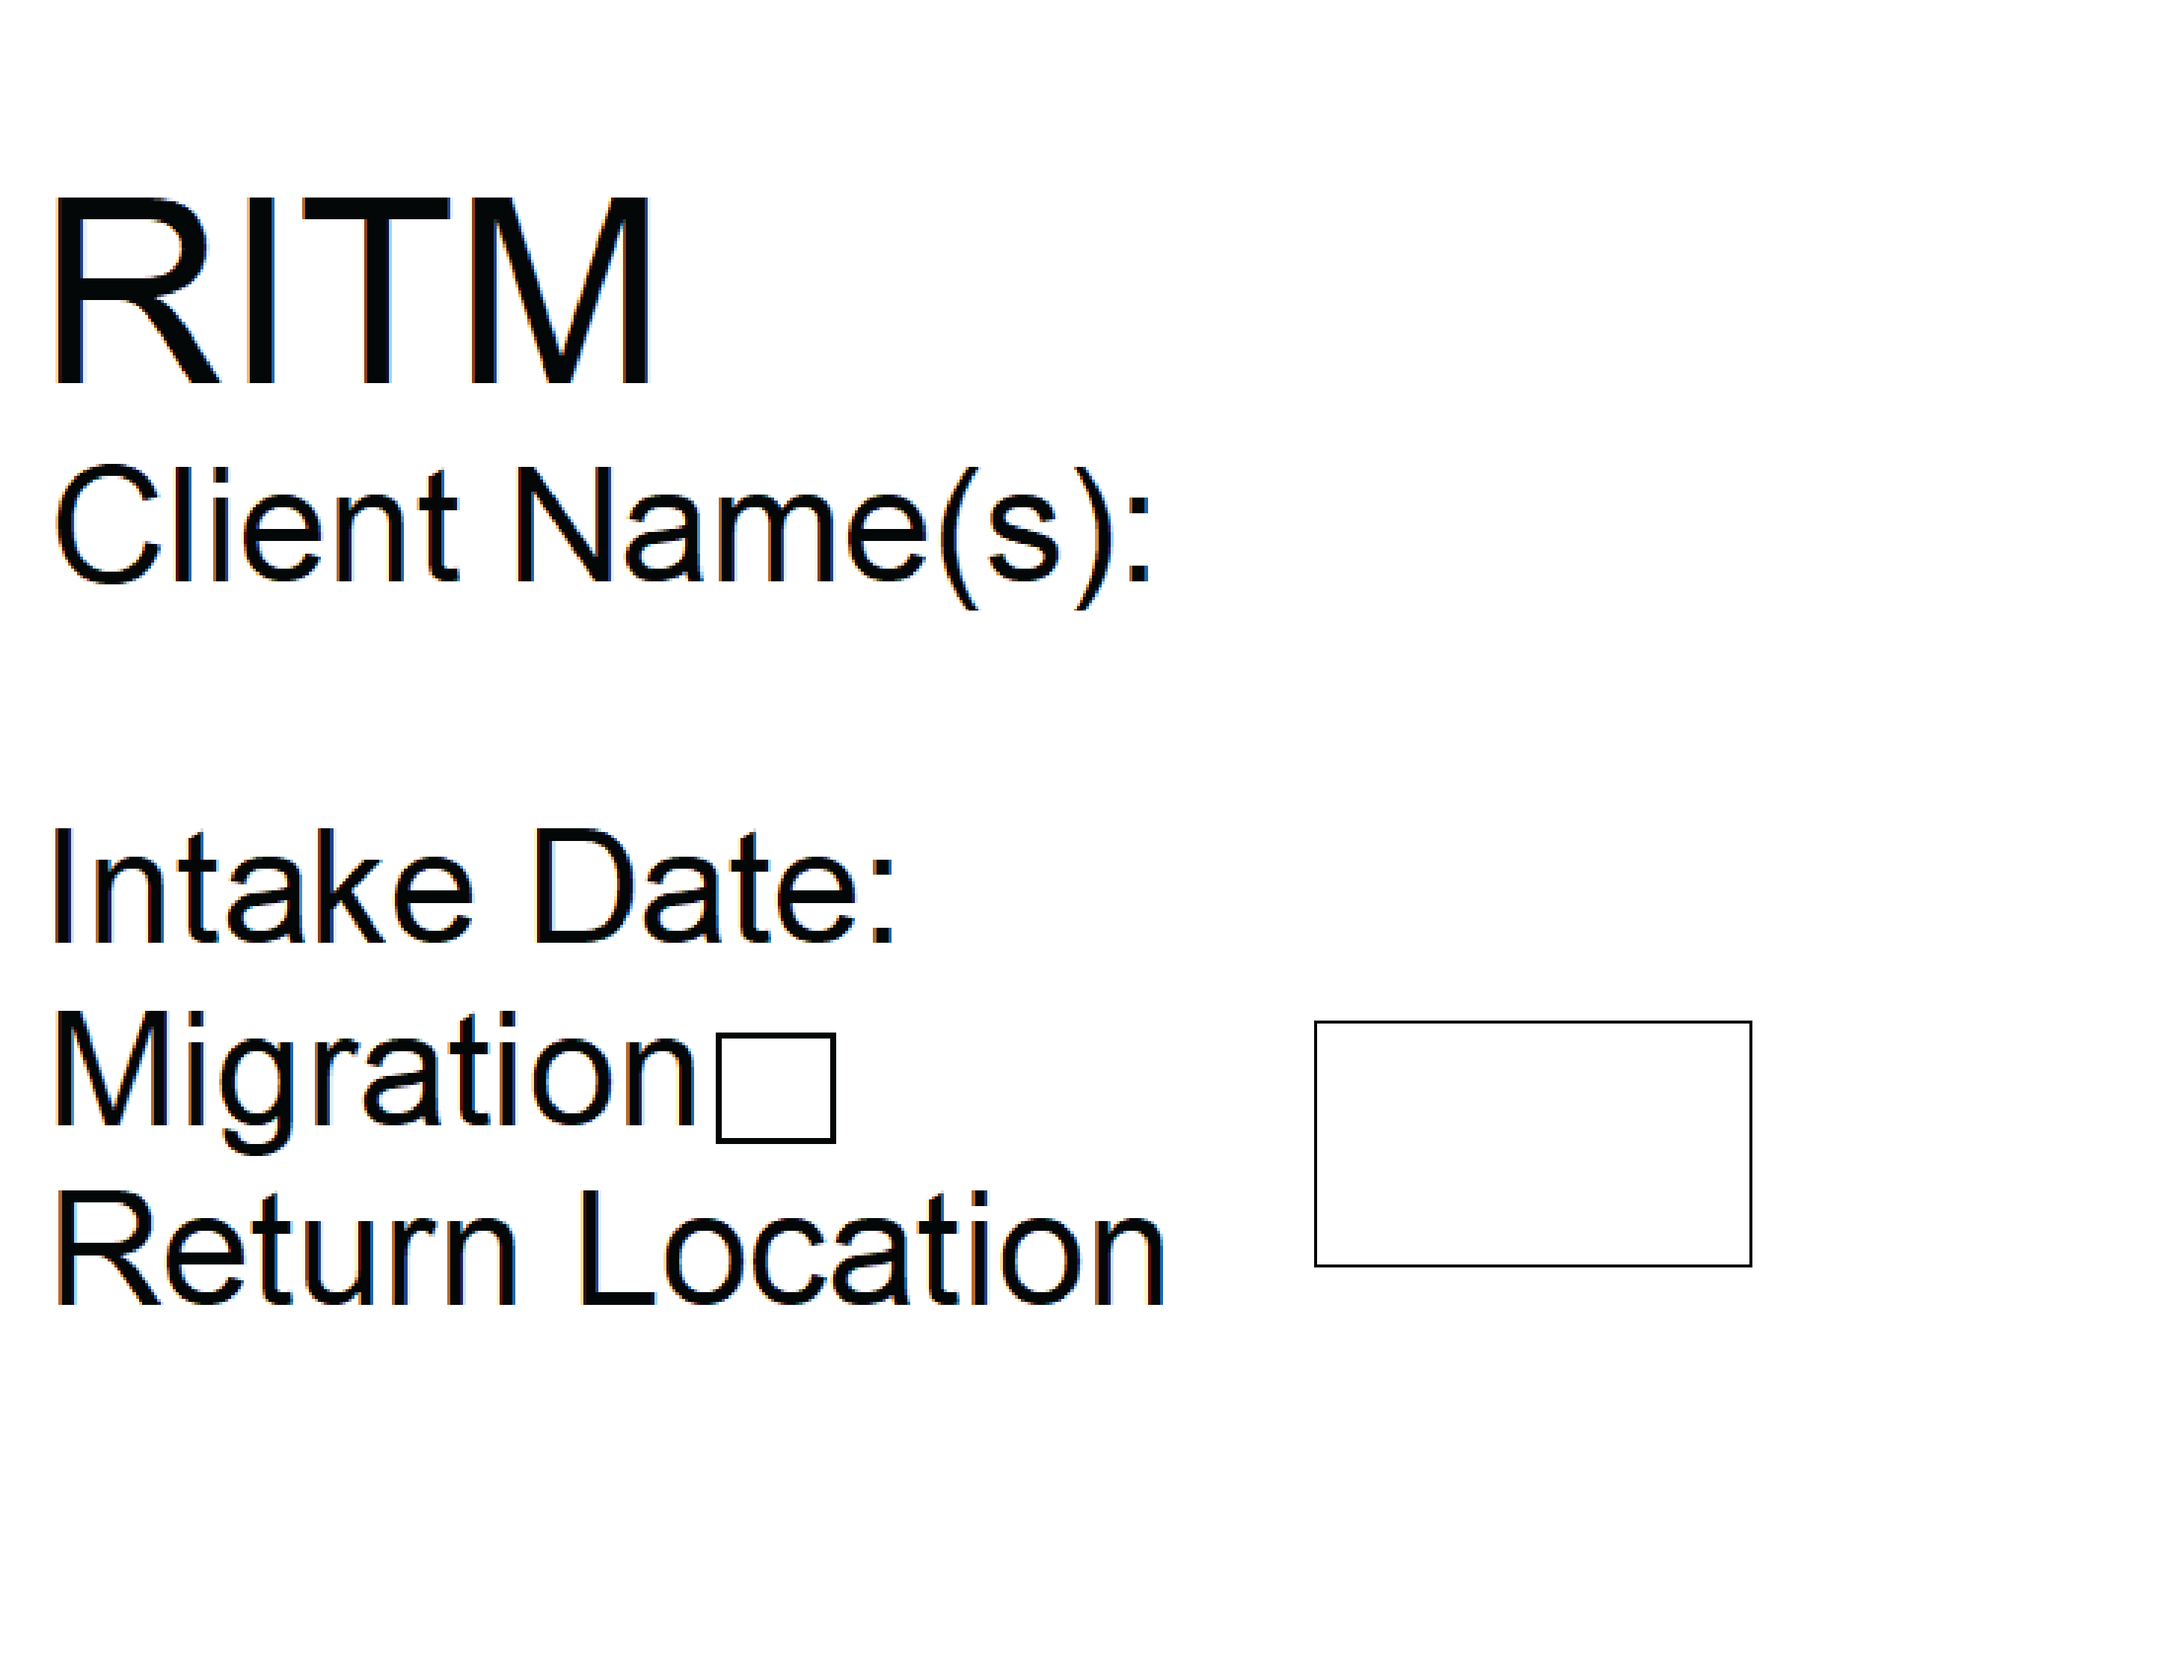
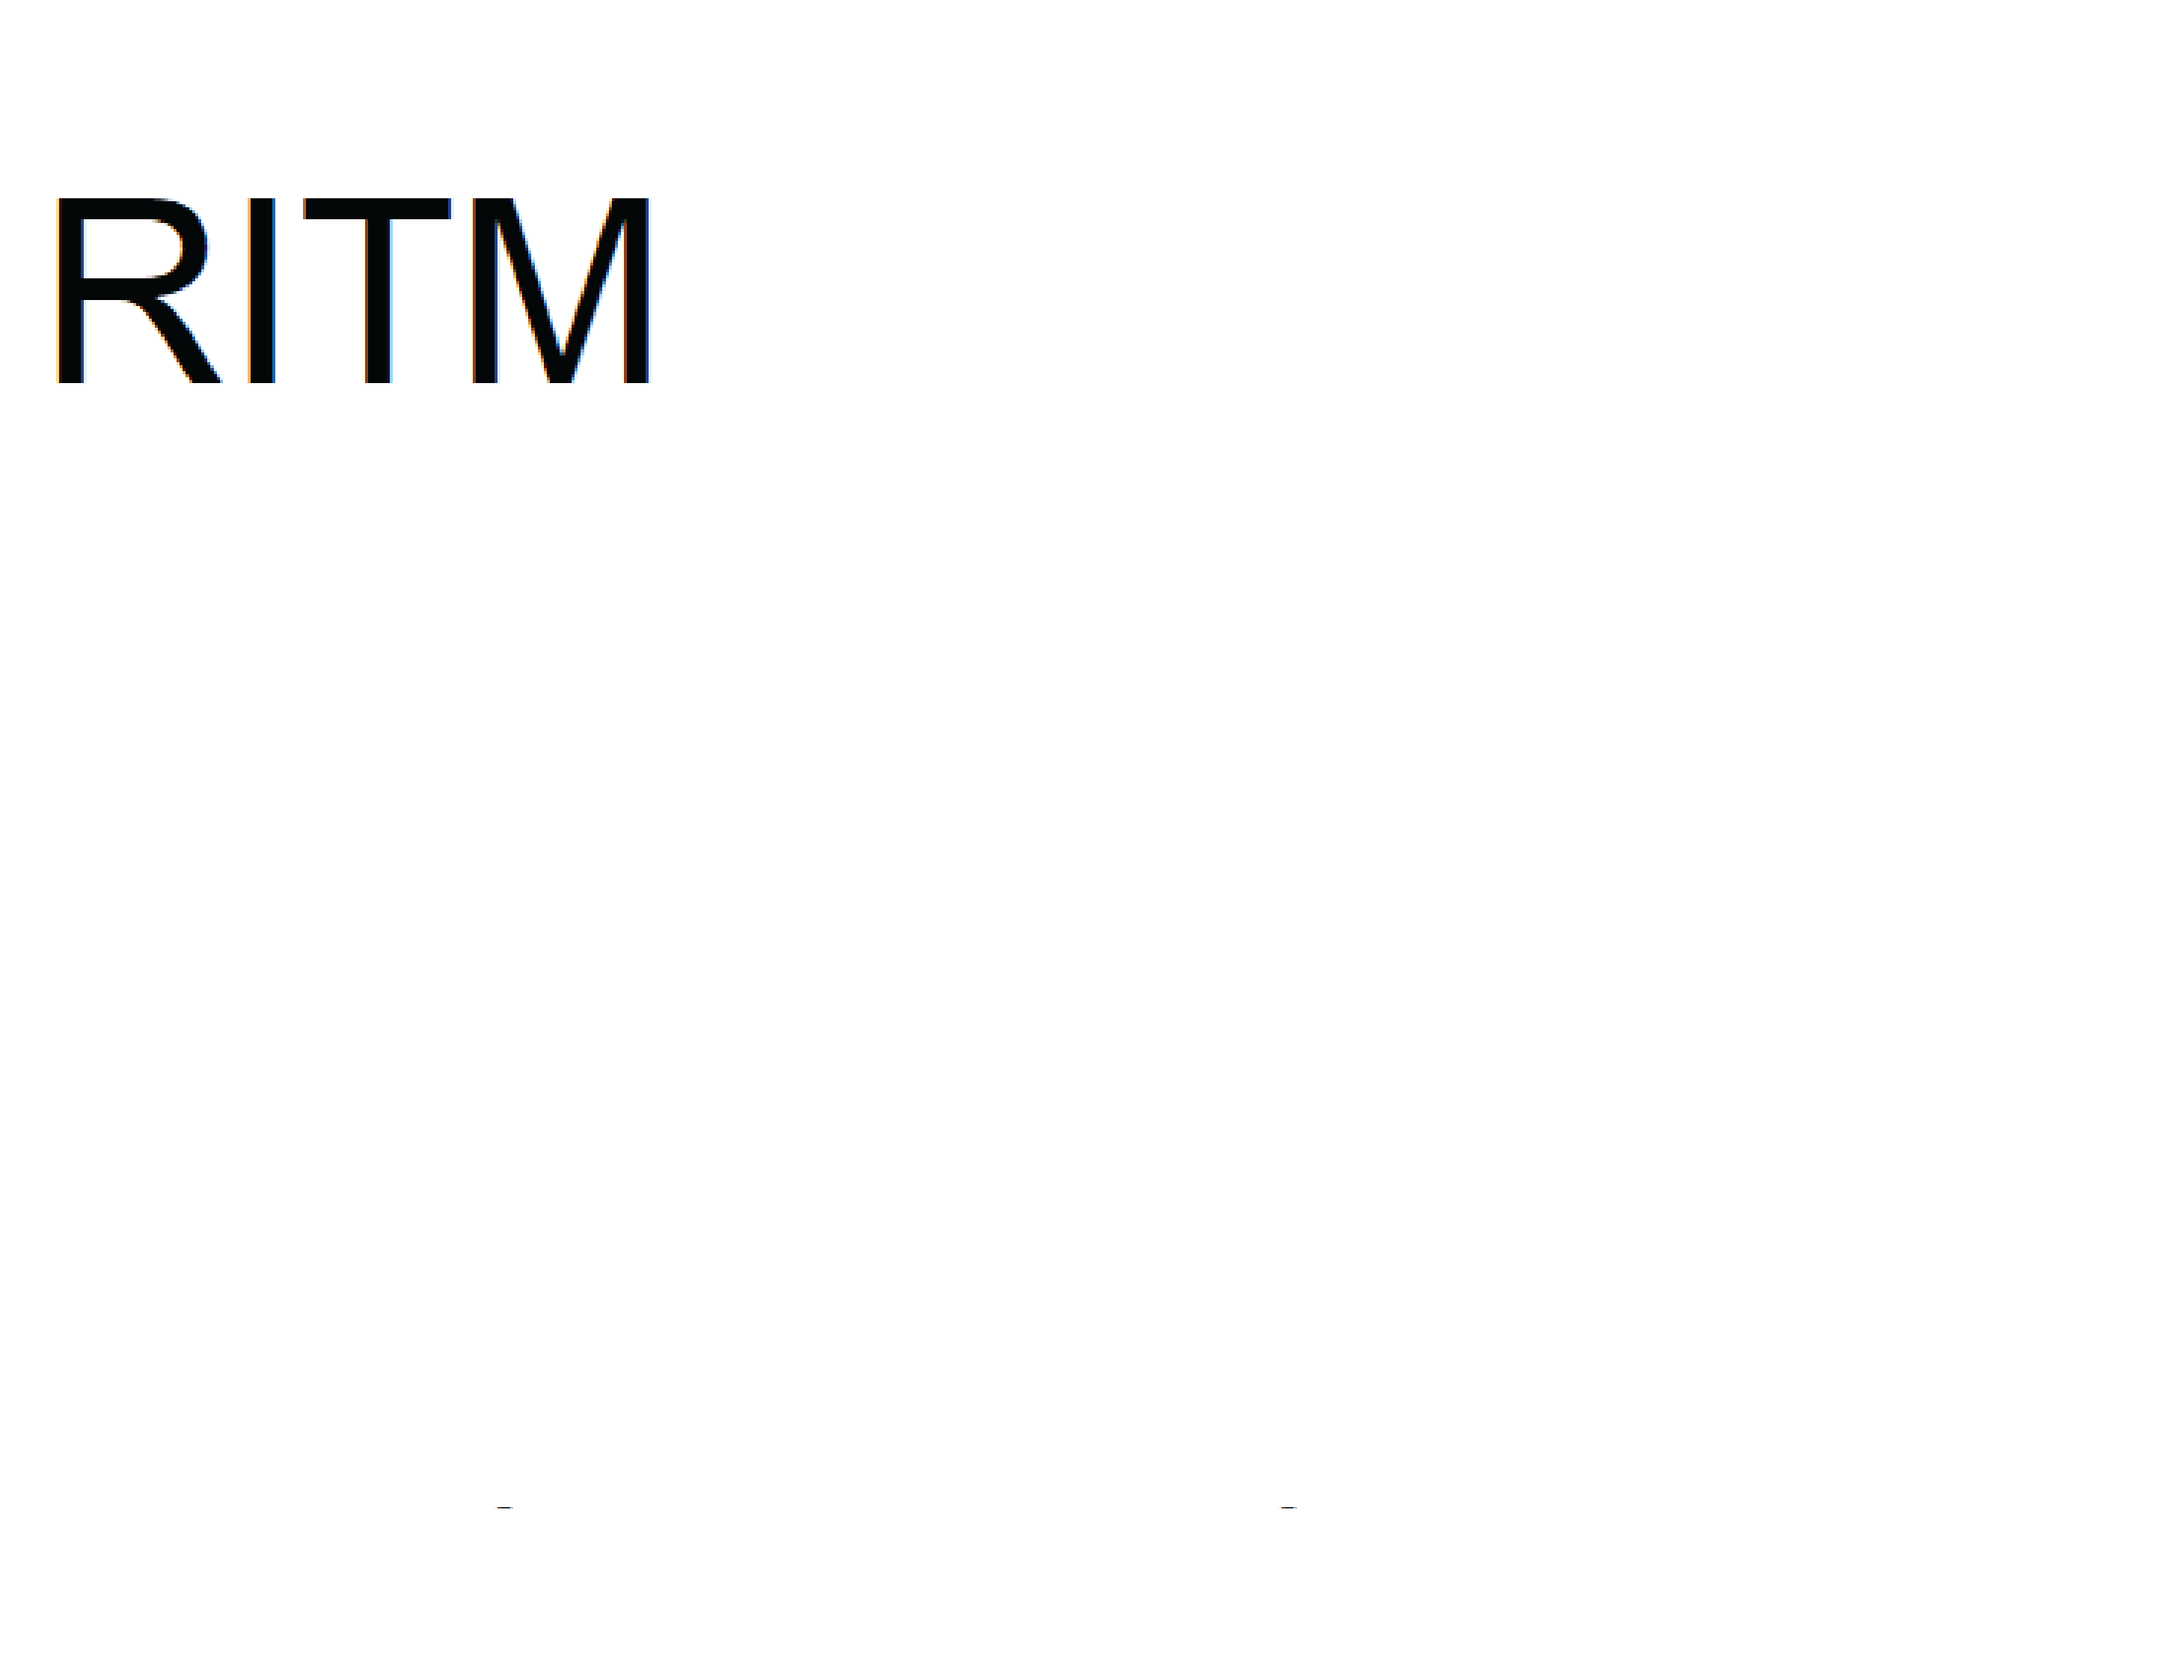
remove old ritm png and removed return location

Changed region(s): [[0.0, 0.4946, 0.5586, 0.8038], [0.0, 0.2782, 0.5276, 0.371], [0.2483, 0.4946, 0.4034, 0.5874]]

diff --git a/templates/index.html b/templates/index.html
@@ -142,7 +142,7 @@
 
         <div>
             <h2>RITM</h2>
-            <img src="{{ url_for('static', filename='ritm.png') }}">
+            <img src="{{ url_for('static', filename='ritm_template.png') }}">
             <form method="post">
                 <input type="hidden" name="label" value="ritm">
                 RITM: <input type="number" name="ritm" placeholder="0000000">
@@ -159,8 +159,6 @@
                 <br>
                 Index: <input style="width: 50px;" type="number" name="index_1" placeholder="0"> of <input style="width: 50px;" type="number" name="index_2"
                     placeholder="0">
-                <br>
-                Return Location: <input type="text" name="returnloc" placeholder="">
                 <br>
                 <button type="submit" name="submit_ritm">Print ritm</button>
             </form>

diff --git a/parse.py b/parse.py
@@ -66,7 +66,6 @@ def labelExecute(label):
                 datetime.now().strftime("%m/%d/%Y"),
                 False,
                 str(position + 1) + " of " + str(len(label.serial)),
-                str(label.returnLoc),
             )
             # print label
             print_label()
@@ -103,7 +102,6 @@ def labelExecute(label):
                 datetime.now().strftime("%m/%d/%Y"),  # today's date (for intake date)
                 False,
                 str(position + 1) + " of " + str(len(label.serial)),
-                str(label.returnLoc),
             )
             # print label
             print_label()

diff --git a/write_pngs.py b/write_pngs.py
@@ -70,8 +70,8 @@ def ewaste(ritm, date, serial, erase_type, export, jamf):
     img.save("tmp.png")
 
 
-def ritm(ritm, client_name, requestor_name, date, migration, index, returnloc):
-    img = Image.open("static/ritm_new.png", "r").convert("RGB")
+def ritm(ritm, client_name, requestor_name, date, migration, index):
+    img = Image.open("static/ritm.png", "r").convert("RGB")
     imgdraw = ImageDraw.Draw(img)
 
     # import fonts

diff --git a/app.py b/app.py
@@ -125,7 +125,6 @@ def server():
                         )
                     ),
                     f"{str(request.form['index_1'])} of {str(request.form['index_2'])}",
-                    str(request.form["returnloc"]),
                 )
                 print_thread()
             elif request.form["label"] == "tmpwd":
